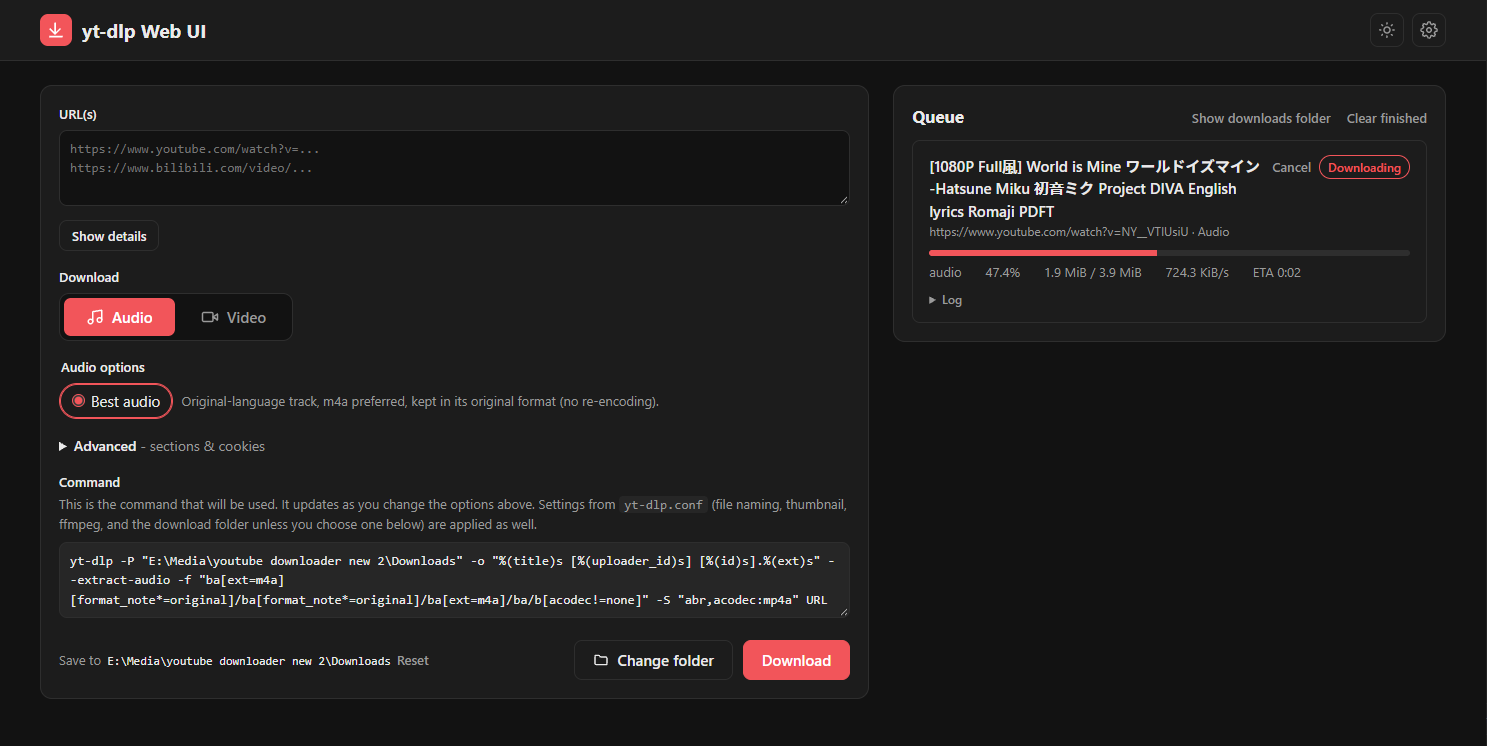
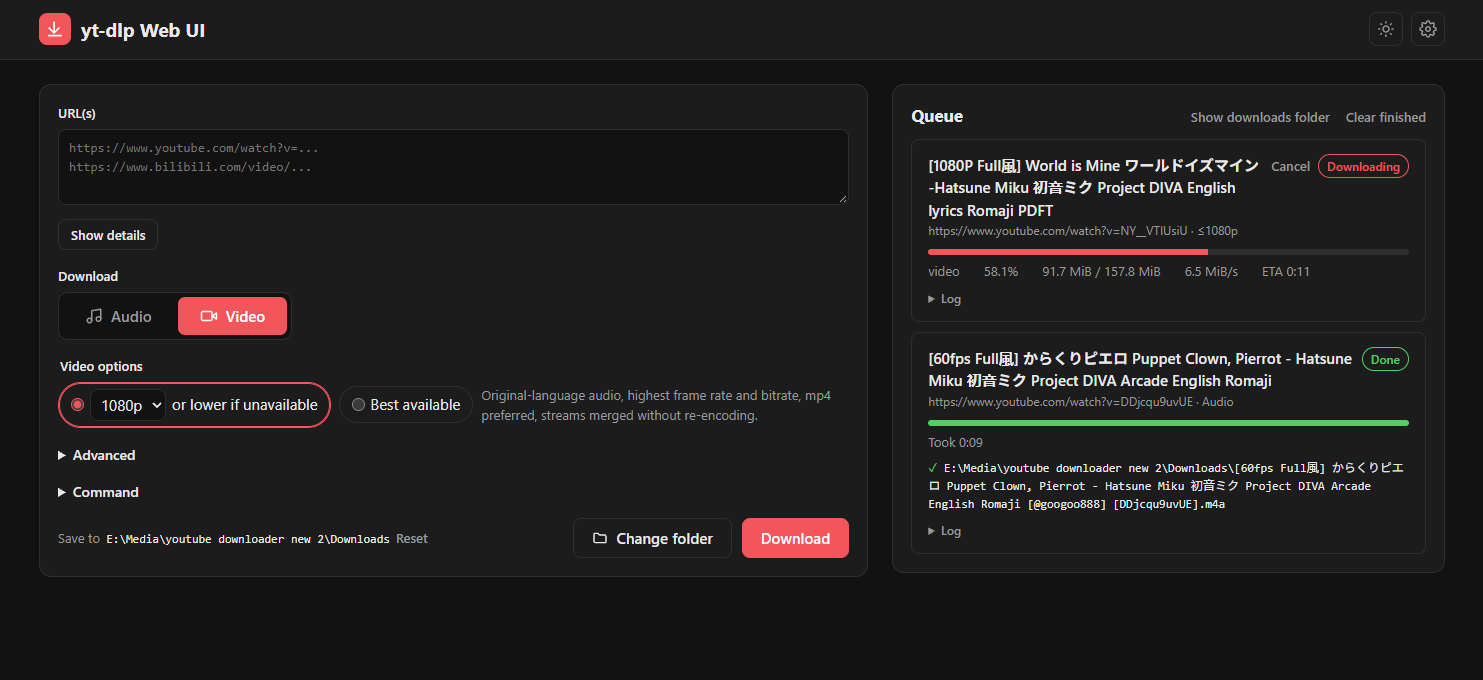
Show the exact download command and yt-dlp.conf in a collapsible section
- Command box now shows the full command each download actually runs
  (python -m yt_dlp, config, folder and progress flags), as PowerShell
  with one option per line, and one command per URL. Launcher, config
  and output flags are dimmed so the options picked in the form stand out.
- Build both the real download args and the displayed command from one
  function (_download_parts) so they can't drift apart.
- Add GET /api/config and show yt-dlp.conf read-only under the command,
  reloading when the window regains focus.
- Move Command into a collapsible "Command" section whose open/closed
  state is remembered per browser.
- Simplify video quality labels ("1080p or lower if unavailable") and
  shorten the hint texts.
- Update README screenshot.

diff --git a/webapp/static/index.html b/webapp/static/index.html
@@ -84,18 +84,18 @@
 
         <fieldset class="group options" id="videoOpts" hidden>
           <legend class="label">Video options</legend>
-          <label class="pill"><input type="radio" name="videoPreset" value="video" checked> Up to
+          <label class="pill"><input type="radio" name="videoPreset" value="video" checked>
             <select id="quality" aria-label="Max quality">
-              <option>360</option><option>480</option><option>720</option>
-              <option selected>1080</option><option>1440</option><option>2160</option>
-            </select>p
+              <option value="360">360p</option><option value="480">480p</option><option value="720">720p</option>
+              <option value="1080" selected>1080p</option><option value="1440">1440p</option><option value="2160">2160p</option>
+            </select> or lower if unavailable
           </label>
           <label class="pill"><input type="radio" name="videoPreset" value="best"> Best available</label>
-          <p class="hint muted">Best video at or below the chosen resolution, merged with the original-language audio; mp4/m4a preferred.</p>
+          <p class="hint muted">Original-language audio, highest frame rate and bitrate, mp4 preferred, streams merged without re-encoding.</p>
         </fieldset>
 
         <details class="extras">
-          <summary>Advanced <span class="muted">- sections &amp; cookies</span></summary>
+          <summary>Advanced</summary>
           <div class="row">
             <div class="field">
               <label class="label" for="start">Section start</label>
@@ -105,7 +105,7 @@
               <label class="label" for="end">Section end</label>
               <input id="end" placeholder="4:51" inputmode="numeric">
             </div>
-            <p class="hint field-hint muted">Leave both empty for the whole video. Formats: <code>58</code>, <code>0:58</code>, <code>1:04:51</code>.</p>
+            <p class="hint field-hint muted">Leave both empty for the whole video.</p>
           </div>
           <div class="row">
             <label class="check"><input type="checkbox" id="cookies"> Use cookies from</label>
@@ -117,12 +117,23 @@
           </div>
         </details>
 
+        <details class="extras" id="commandSection">
+        <summary>Command</summary>
+
         <div class="group">
-          <label class="label command-label" for="command">Command</label>
-          <p class="hint muted" id="commandDesc">This is the command that will be used. It updates as you change the options above. Settings from <code>yt-dlp.conf</code> (file naming, thumbnail, ffmpeg, and the download folder unless you choose one below) are applied as well.</p>
-          <textarea id="command" rows="3" readonly spellcheck="false" aria-describedby="commandDesc"></textarea>
+          <span class="label command-label" id="commandLabel">Command</span>
+          <p class="hint muted" id="commandDesc">This is the exact command the app runs (inside the <code>yt-dlp</code> folder), one per URL. It updates as you change the options above. Settings from <code>yt-dlp.conf</code> are applied as well.</p>
+          <pre id="command" tabindex="0" aria-labelledby="commandLabel" aria-describedby="commandDesc"></pre>
           <p class="error small" id="commandError" hidden></p>
         </div>
+
+        <div class="group">
+          <label class="label command-label" for="conf">yt-dlp.conf</label>
+          <p class="hint muted" id="confDesc">Loaded by the command above through <code>--config-locations</code>. Edit the file to change these settings.</p>
+          <textarea id="conf" rows="3" readonly spellcheck="false" aria-describedby="confDesc"></textarea>
+          <p class="error small" id="confError" hidden></p>
+        </div>
+        </details>
 
         <p class="error" id="formError" hidden></p>
 

diff --git a/webapp/static/app.js b/webapp/static/app.js
@@ -107,6 +107,36 @@ function showKind() {
   $("videoOpts").hidden = audio;
 }
 
+// Grow a read-only box to show all its lines. scrollHeight is the content
+// height; offsetHeight - clientHeight adds the borders and, when long lines
+// overflow sideways, the horizontal scrollbar, so no vertical one is needed.
+function fitHeight(box) {
+  box.style.height = "auto";
+  box.style.height = `${box.scrollHeight + box.offsetHeight - box.clientHeight}px`;
+}
+
+// commands -> lines -> [text, extra] segments. Extra segments (launcher, config,
+// output flags) are dimmed; the download options from the form stay prominent.
+// Lines end with PowerShell's ` continuation; commands are separated by a blank line.
+function renderCommand(commands) {
+  const nodes = [];
+  commands.forEach((lines, c) => {
+    if (c) nodes.push("\n\n");
+    lines.forEach((segs, l) => {
+      if (l) nodes.push("\n  ");
+      segs.forEach(([text, extra], s) => {
+        if (s) nodes.push(" ");
+        nodes.push(extra ? el("span", { className: "extra" }, text) : text);
+      });
+      if (l < lines.length - 1) {
+        const lineExtra = segs[segs.length - 1][1];  // match the line's colour
+        nodes.push(lineExtra ? el("span", { className: "extra" }, " `") : " `");
+      }
+    });
+  });
+  $("command").replaceChildren(...nodes);
+}
+
 // The command box is built by the server from the same code that runs downloads.
 let commandSeq = 0;
 let commandTimer = 0;
@@ -120,13 +150,29 @@ async function updateCommand() {
     const { ok, data } = await api("POST", "/api/command", { urls: urls(), ...options() });
     if (seq !== commandSeq) return;           // a newer request is in flight
     if (!ok) throw new Error("Could not build the command. The server may be outdated, so restart it (start.bat).");
-    $("command").value = data.command;
+    renderCommand(data.commands);
     $("commandError").hidden = true;
   } catch (e) {
     if (seq !== commandSeq) return;
     // Keep the last valid command visible; explain what's wrong under it.
     $("commandError").textContent = e.message;
     $("commandError").hidden = false;
+  }
+}
+
+// yt-dlp.conf is read by yt-dlp on every run; show its current contents.
+async function loadConf() {
+  try {
+    const { ok, data } = await api("GET", "/api/config");
+    if (!ok) throw new Error("Could not load yt-dlp.conf. The server may be outdated, so restart it (start.bat).");
+    if (data.error) throw new Error(data.error);
+    $("conf").title = data.path;
+    $("conf").value = data.text;
+    fitHeight($("conf"));
+    $("confError").hidden = true;
+  } catch (e) {
+    $("confError").textContent = e.message;
+    $("confError").hidden = false;
   }
 }
 
@@ -441,6 +487,17 @@ applyTheme(document.documentElement.dataset.theme || (darkQuery.matches ? "dark"
 loadSettings();
 showKind();
 updateCommand();
+loadConf();
+window.addEventListener("focus", loadConf);  // pick up edits made to the file meanwhile
+// A width change can add or remove the horizontal scrollbar, so re-fit.
+window.addEventListener("resize", () => fitHeight($("conf")));
+// Collapsible Command section: remember open/closed per browser. A collapsed box
+// can't be measured, so re-fit the conf box when the section opens.
+try { $("commandSection").open = localStorage.getItem("commandOpen") === "1"; } catch { /* storage blocked */ }
+$("commandSection").addEventListener("toggle", () => {
+  try { localStorage.setItem("commandOpen", $("commandSection").open ? "1" : "0"); } catch { /* storage blocked */ }
+  if ($("commandSection").open) fitHeight($("conf"));
+});
 loadFolder();
 loadVersion();
 refresh();

diff --git a/webapp/static/style.css b/webapp/static/style.css
@@ -156,13 +156,27 @@ fieldset legend { margin-bottom: 6px; }
 .segmented label:has(input:focus-visible) { outline: 2px solid var(--accent); outline-offset: 2px; }
 .segmented svg { width: 18px; height: 18px; fill: none; stroke: currentColor; stroke-width: 2; stroke-linecap: round; stroke-linejoin: round; }
 
-#command { background: var(--code); }
+/* One option per line: scroll sideways instead of soft-wrapping long values. */
+/* Height is fitted to the content by fitHeight() in app.js. */
+#conf { background: var(--code); color: var(--muted); white-space: pre; overflow-x: auto; overflow-y: hidden; resize: none; }
+/* Read-only code block (not a textarea, so parts can be coloured); grows with its content. */
+#command {
+  margin: 0; max-height: none; padding: 8px 10px;
+  border: 1px solid var(--border); border-radius: 8px; background: var(--code);
+  font-family: ui-monospace, Consolas, monospace; font-size: 13px;
+  white-space: pre; overflow-wrap: normal; overflow-x: auto;
+}
+#command:focus { outline: 2px solid var(--accent); outline-offset: -1px; }
+#command .extra { color: var(--muted); }  /* launcher, config, folder and output flags */
+#confDesc { margin-bottom: 8px; }
+#confError { margin-top: 4px; }
 .command-label { margin-bottom: 2px; }
 #commandDesc { margin-bottom: 8px; }
 #commandError { margin-top: 4px; }
 
 .extras { margin-top: 16px; }
 .extras summary .muted { font-weight: 400; }
+#commandSection > .group:first-of-type { margin-top: 12px; }
 .extras summary, details summary { cursor: pointer; font-weight: 600; font-size: 14px; }
 
 .actions { display: flex; flex-wrap: wrap; justify-content: flex-end; align-items: center; gap: 10px; margin-top: 16px; }

diff --git a/webapp/runner.py b/webapp/runner.py
@@ -127,23 +127,41 @@ def cookie_args(opts: dict) -> list[str]:
 
 def option_args(opts: dict) -> list[str]:
     """The user-chosen part of the command: format selection, cookies, sections.
-    Shared by the real download and the command shown in the UI."""
-    args = location_args(opts.get("folder")) + preset_args(opts) + cookie_args(opts)
+    (The download folder, -P/-o, is added separately by _download_parts.)"""
+    args = preset_args(opts) + cookie_args(opts)
     if opts["start"] or opts["end"]:
         args += ["--download-sections", f"*{opts['start'] or '0'}-{opts['end'] or 'inf'}"]
     return args
 
 
-_SAFE_ARG = re.compile(r"^[\w@%+=:./-]+$")
+_SAFE_ARG = re.compile(r"^[\w%+=:./-]+$")
 
 
 def _quote(arg: str) -> str:
-    return arg if _SAFE_ARG.match(arg) else '"' + arg.replace('"', '\\"') + '"'
+    """PowerShell quoting: single quotes are literal (no $ or ` expansion)."""
+    return arg if _SAFE_ARG.match(arg) else "'" + arg.replace("'", "''") + "'"
 
 
-def display_command(urls: list[str], opts: dict) -> str:
-    """The command as you'd type it in a terminal (from the yt-dlp folder)."""
-    return " ".join(_quote(a) for a in ["yt-dlp", *option_args(opts), *(urls or ["URL"])])
+def display_command(urls: list[str], opts: dict) -> list:
+    """The exact command(s) a download runs, written as PowerShell: one option per
+    line (each with its value), lines joined by the ` continuation by the page.
+    Each URL is its own job, so several URLs give several commands.
+
+    Returns commands -> lines -> [text, extra] segments, where extra marks the
+    launcher, config and output plumbing (shown dimmed) as opposed to the
+    download options chosen in the form."""
+    commands = []
+    for url in urls or ["URL"]:
+        (python, _), (m, _), (module, _), *parts = _download_parts(url, opts)  # python -m yt_dlp ...
+        lines = [[["&", True], [_quote(python), True], [m, True], [module, True]]]  # & runs a quoted path
+        for arg, extra in parts:
+            seg = [_quote(arg), extra]
+            if arg.startswith("-"):
+                lines.append([seg])
+            else:
+                lines[-1].append(seg)
+        commands.append(lines)
+    return commands
 
 
 PROGRESS_FIELDS = (
@@ -155,16 +173,33 @@ PROGRESS_TAG = "[[P]]"
 FILE_TAG = "[[F]]"
 
 
-def download_args(url: str, opts: dict) -> list[str]:
-    args = base_args() + option_args(opts)
+def output_args() -> list[str]:
+    """Machine-readable progress and the final file path, for the web UI only.
+    They change what yt-dlp prints, not what it downloads."""
     template = PROGRESS_TAG + "|".join(f"%({f})s" for f in PROGRESS_FIELDS)
-    args += [
+    return [
         "--newline", "--progress", "--no-quiet",
         "--progress-template", f"download:{template}",
         "--print", f"after_move:{FILE_TAG}%(filepath)s",
-        "--", url,
     ]
-    return args
+
+
+def _download_parts(url: str, opts: dict) -> list[tuple[str, bool]]:
+    """Every argument of a download, tagged True for plumbing (launcher, config,
+    download folder -P/-o, output, the -- separator) or False for the format,
+    cookie and section options and the URL. Shown dimmed vs. normal in the UI.
+    The single source for both the real run and the command shown in the UI."""
+    return (
+        [(a, True) for a in base_args()]
+        + [(a, True) for a in location_args(opts.get("folder"))]
+        + [(a, False) for a in option_args(opts)]
+        + [(a, True) for a in output_args()]
+        + [("--", True), (url, False)]
+    )
+
+
+def download_args(url: str, opts: dict) -> list[str]:
+    return [arg for arg, _ in _download_parts(url, opts)]
 
 
 # ---------------------------------------------------------- downloads folder
@@ -200,6 +235,14 @@ def set_download_dir(folder: str | None):
     else:
         settings.pop("download_dir", None)
     _save_settings(settings)
+
+
+def read_config() -> dict:
+    """yt-dlp.conf as yt-dlp will read it on the next download."""
+    try:
+        return {"path": str(CONF), "text": CONF.read_text(encoding="utf-8")}
+    except OSError as e:
+        return {"path": str(CONF), "text": None, "error": f"Could not read yt-dlp.conf: {e}"}
 
 
 def _conf_template() -> str | None:

diff --git a/webapp/app.py b/webapp/app.py
@@ -12,7 +12,7 @@ from flask import Flask, jsonify, request, send_from_directory
 
 from runner import (
     Manager, ValidationError, display_command, downloads_dir, fetch_info, open_downloads,
-    pick_folder, saved_download_dir, set_download_dir, validate_options, validate_url,
+    pick_folder, read_config, saved_download_dir, set_download_dir, validate_options, validate_url,
 )
 
 HOST = "127.0.0.1"  # this PC only
@@ -61,7 +61,13 @@ def command():
     """The yt-dlp command the current form options would run (display only)."""
     data = request.get_json(force=True) or {}
     urls = [u.strip() for u in data.get("urls") or [] if isinstance(u, str) and u.strip()]
-    return jsonify(command=display_command(urls, validate_options(data)))
+    return jsonify(commands=display_command(urls, validate_options(data)))
+
+
+@app.get("/api/config")
+def config():
+    """yt-dlp.conf's contents (display only), loaded by every download."""
+    return jsonify(read_config())
 
 
 @app.post("/api/jobs")
